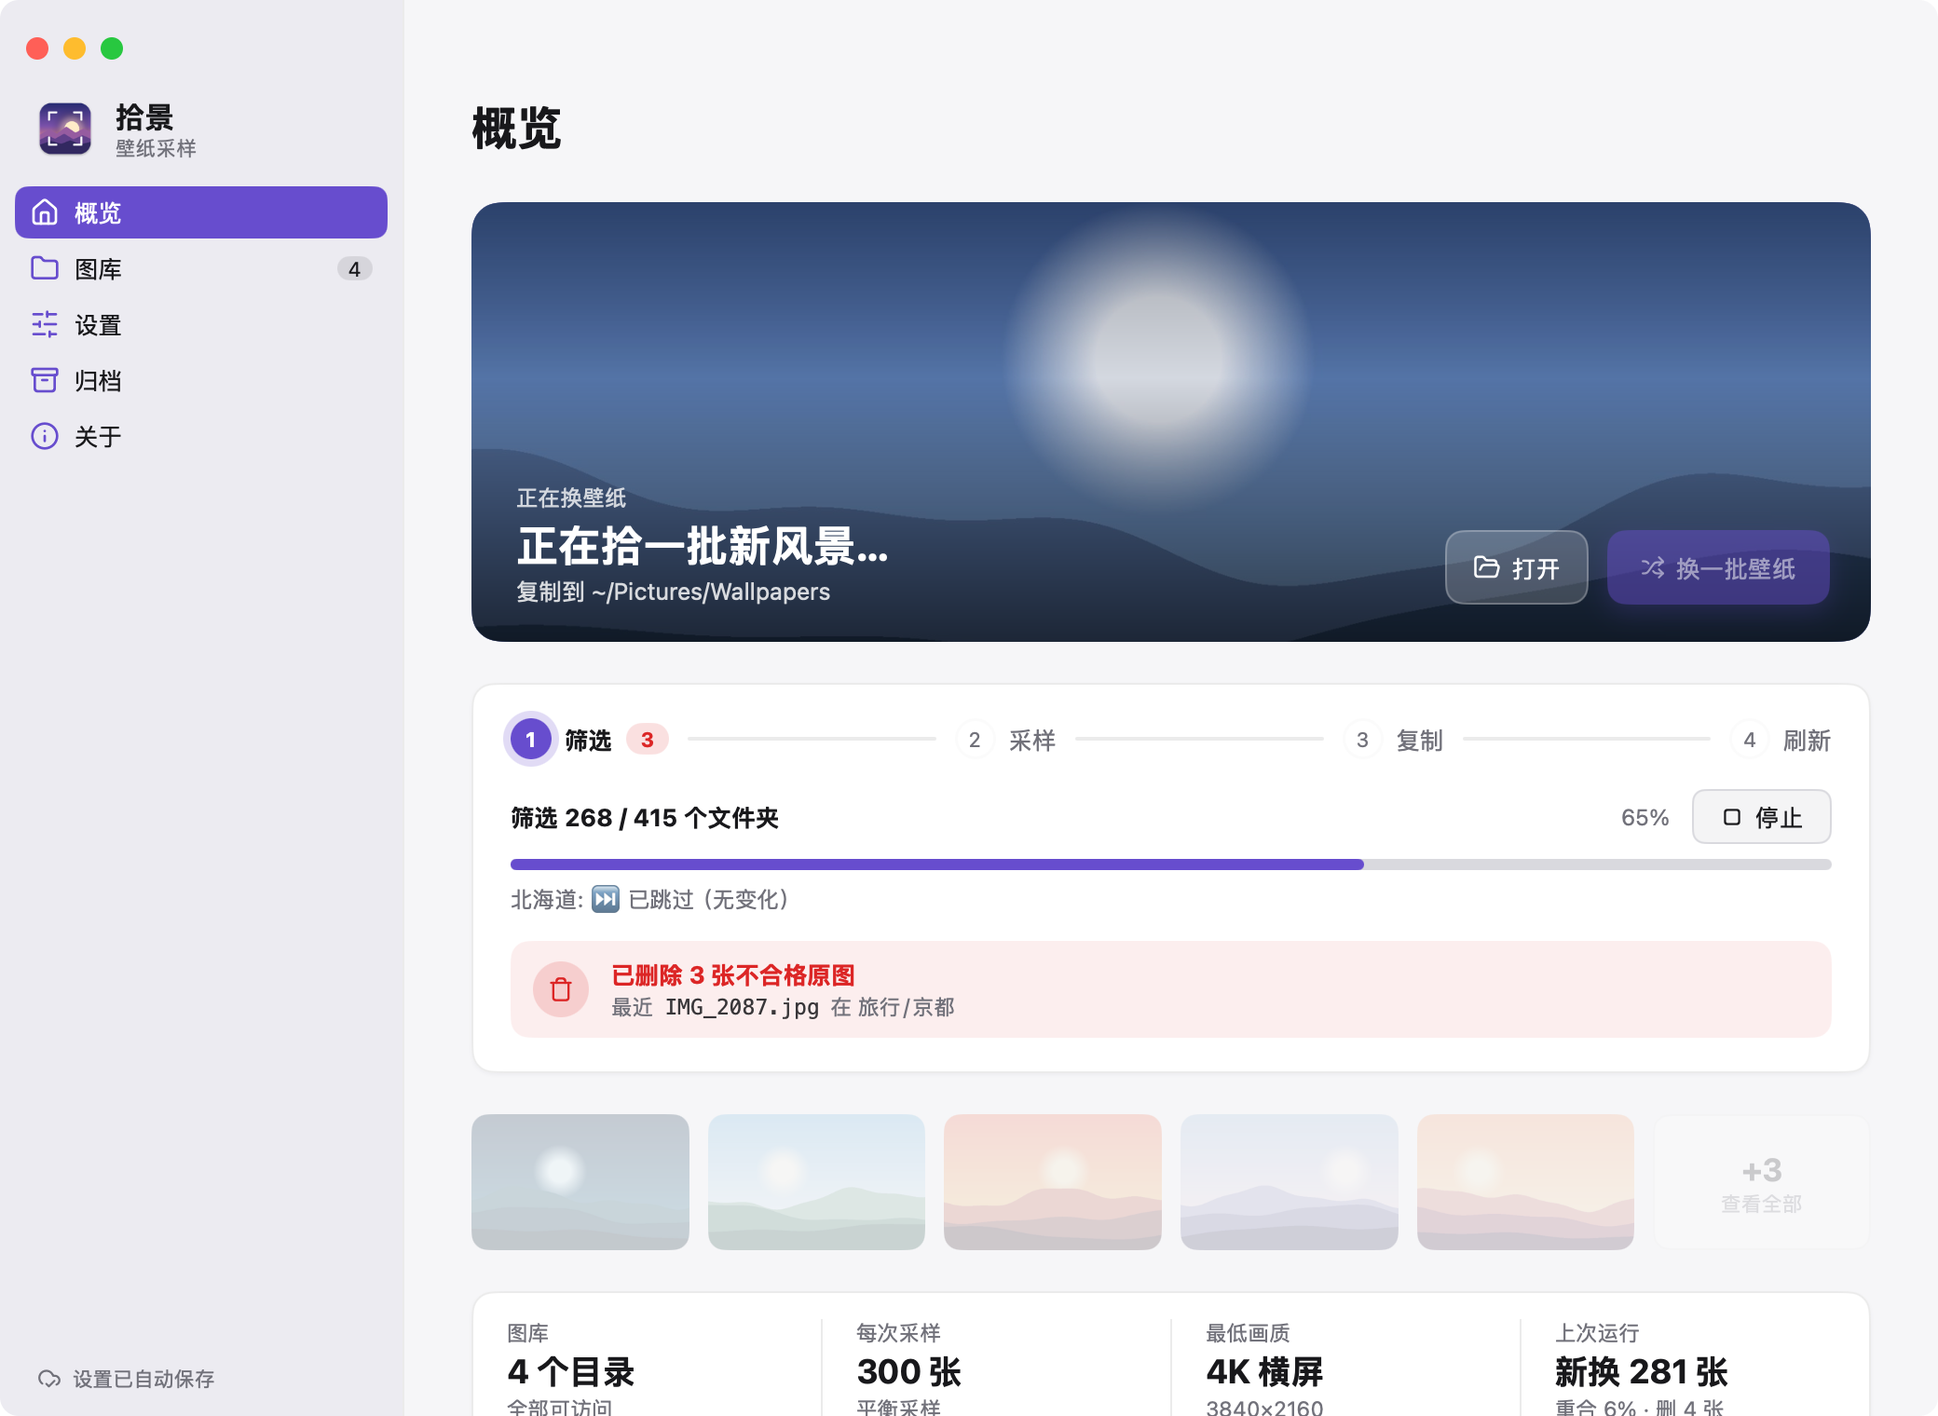
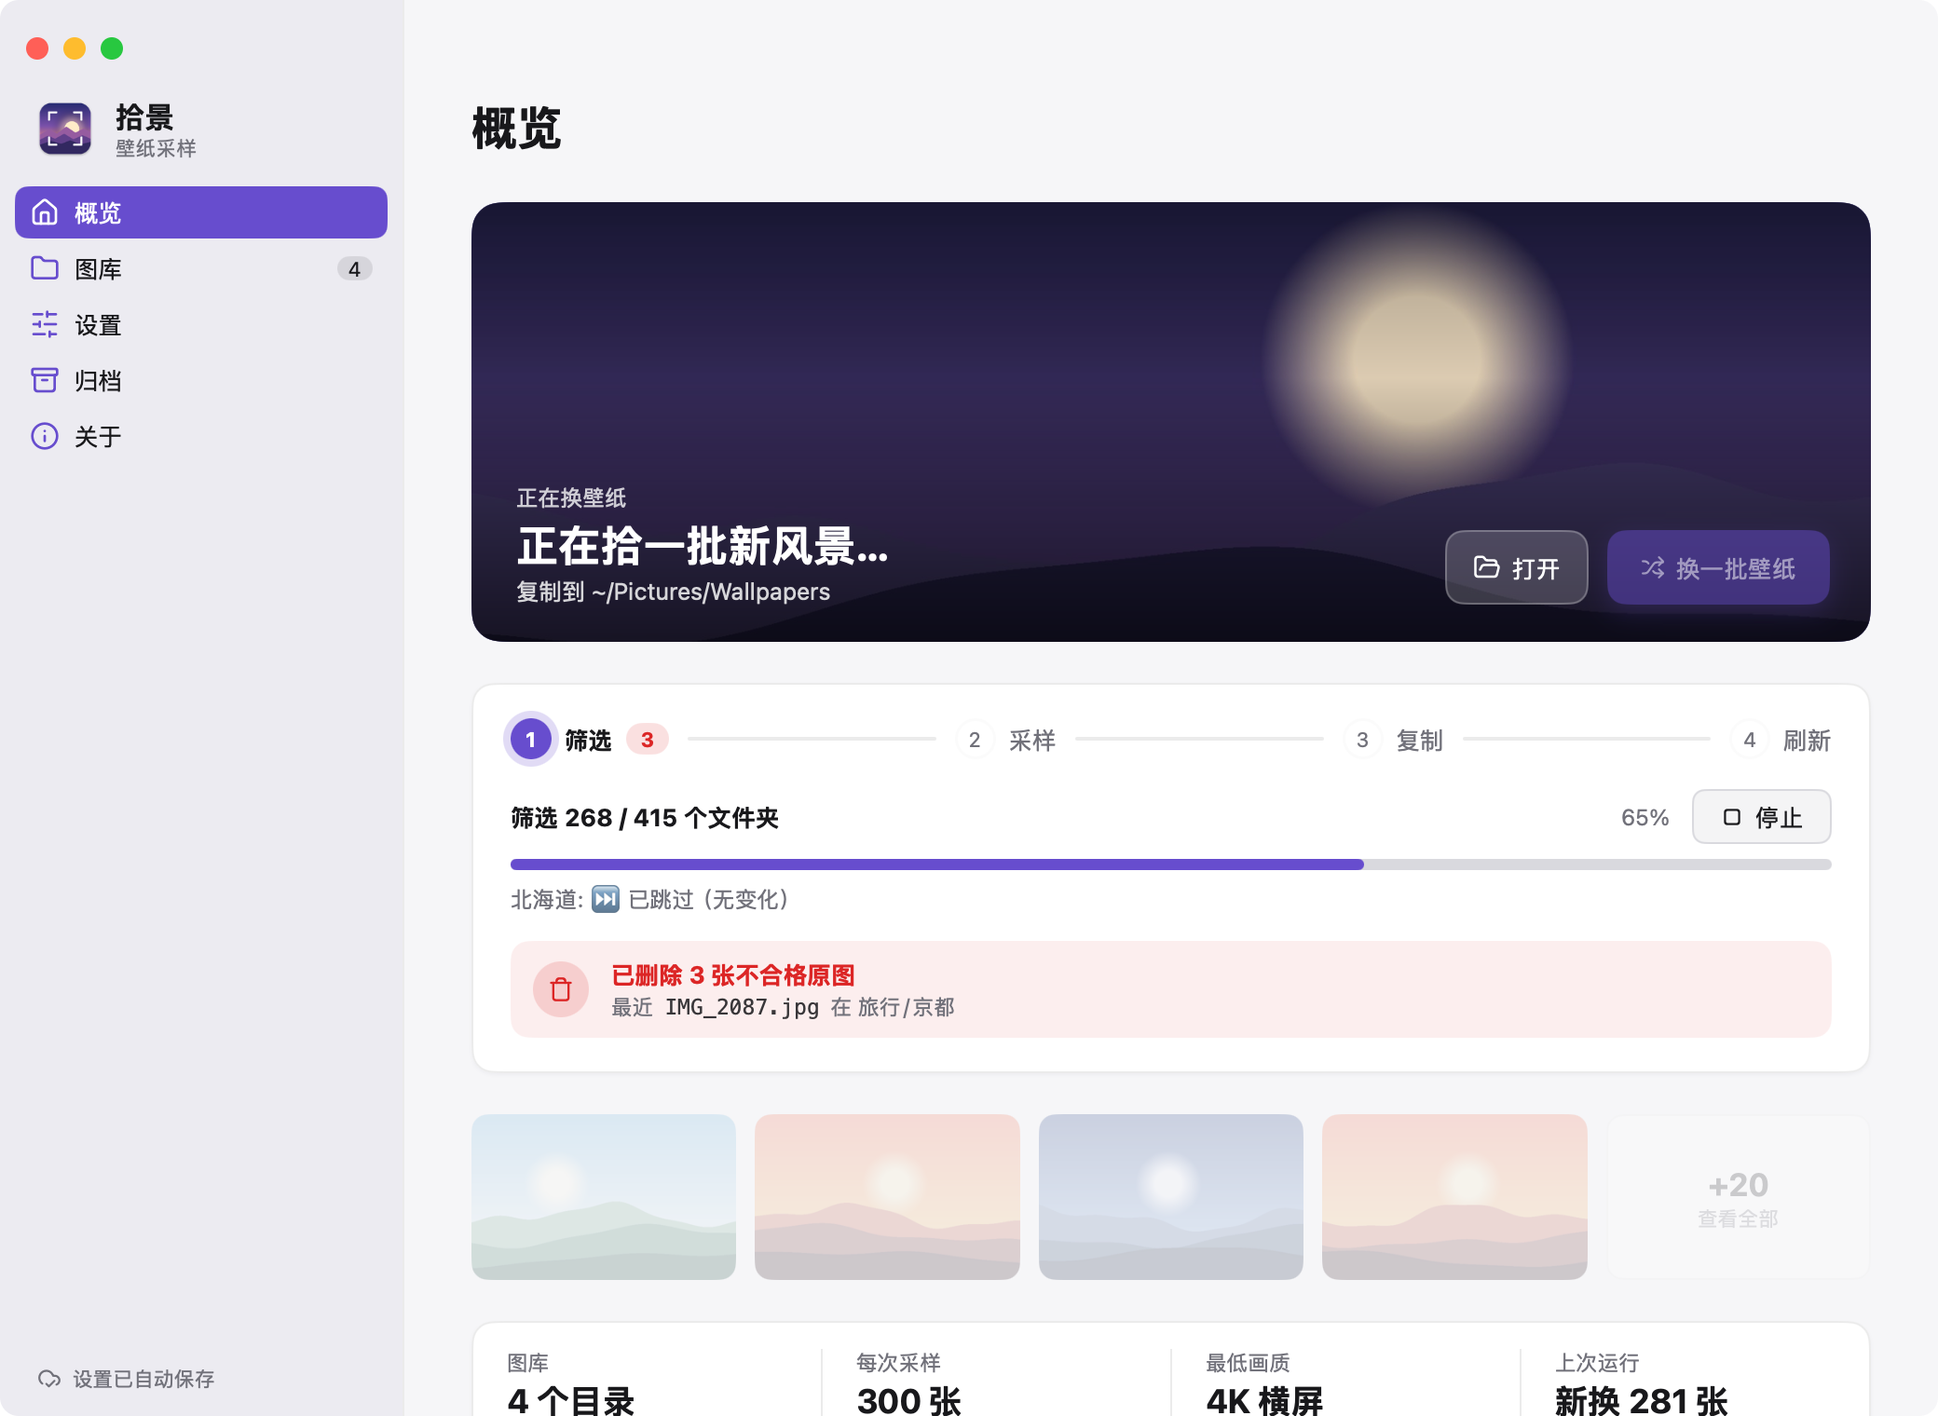
feat(拾景): 概览页缩略图按窗口大小铺满（列数随宽度、行数填满剩余高度），版本 v0.2.110

diff --git a/desktop/thumbs.go b/desktop/thumbs.go
@@ -13,12 +13,15 @@ import (
 	"golang.org/x/image/draw"
 )
 
-// 概览页展示当前壁纸：一张做横幅背景，其余做缩略图条。
+// 概览页展示当前壁纸：一张做横幅背景，其余做缩略图网格。网格的行列数跟着窗口大小变（stripLayout），
+// 先解码够一屏常见大小的缩略图，窗口拉大需要更多时再从剩下的文件里接着解码（loadMoreThumbs）。
 // 只读本地的壁纸文件夹（dest_dir），不碰 NAS；解码和缩小都在后台完成。
 const (
-	stripThumbs = 5    // 缩略图条显示几张（最后再加一格「+N」）
-	heroWidth   = 1600 // 横幅图缩到的宽度（像素，Retina 下约 800 DIP）
-	thumbWidth  = 360  // 缩略图宽度（像素）
+	initialThumbs = 11   // 第一次解码几张缩略图（默认窗口两行 × 6 列，减去「+N」那格）
+	maxThumbs     = 71   // 最多显示几张（stripLayout 的上限：6 行 × 12 列 - 1）
+	decodeWorkers = 4    // 同时解码几张：原图可能是几千万像素，全部同时解码内存吃不消
+	heroWidth     = 1600 // 横幅图缩到的宽度（像素，Retina 下约 800 DIP）
+	thumbWidth    = 360  // 缩略图宽度（像素）
 )
 
 // wallpapers 是壁纸文件夹的快照。
@@ -28,7 +31,9 @@ type wallpapers struct {
 	hero    *ui.Bitmap   // 横幅背景；没有图片时为 nil
 	thumbs  []*ui.Bitmap // 缩略图
 	paths   []string     // 每张缩略图对应的文件，点击时打开
+	rest    []string     // 还没解码的文件（已打乱），需要更多缩略图时从这里取
 	loading bool
+	more    bool // 正在后台解码更多缩略图
 }
 
 // scannedWallpapers 是后台扫描的结果（image.Image 在主线程上才转成 Bitmap）。
@@ -38,9 +43,10 @@ type scannedWallpapers struct {
 	hero   image.Image
 	thumbs []image.Image
 	paths  []string
+	rest   []string
 }
 
-// scanWallpapers 列出文件夹里的图片，随机挑几张解码、缩小。读不了的图片直接跳过。
+// scanWallpapers 列出文件夹里的图片，打乱后解码横幅图和前几张缩略图。读不了的图片直接跳过。
 func scanWallpapers(dir string) scannedWallpapers {
 	res := scannedWallpapers{dir: dir}
 	entries, err := os.ReadDir(dir)
@@ -57,33 +63,50 @@ func scanWallpapers(dir string) scannedWallpapers {
 	res.total = len(files)
 	rand.Shuffle(len(files), func(i, j int) { files[i], files[j] = files[j], files[i] })
 
-	// 多挑几张备用：个别文件解码失败时仍能凑满
-	pick := files[:min(len(files), stripThumbs+4)]
-	decoded := make([]image.Image, len(pick))
-	var wg sync.WaitGroup
-	for i, f := range pick {
-		wg.Add(1)
-		go func() {
-			defer wg.Done()
-			width := thumbWidth
-			if i == 0 {
-				width = heroWidth
-			}
-			decoded[i] = loadScaled(f, width)
-		}()
-	}
-	wg.Wait()
-	for i, img := range decoded {
-		switch {
-		case img == nil:
-		case res.hero == nil && img.Bounds().Dx() >= thumbWidth*2:
+	// 横幅图要够宽；第一张不够宽（或读不了）就往后找，最多试几张
+	for len(files) > 0 && res.hero == nil {
+		f := files[0]
+		files = files[1:]
+		img := loadScaled(f, heroWidth)
+		if img == nil {
+			continue
+		}
+		if img.Bounds().Dx() >= thumbWidth*2 {
 			res.hero = img
-		case len(res.thumbs) < stripThumbs:
-			res.thumbs = append(res.thumbs, shrink(img, thumbWidth))
-			res.paths = append(res.paths, pick[i])
+			break
+		}
+		res.thumbs, res.paths = append(res.thumbs, shrink(img, thumbWidth)), append(res.paths, f)
+	}
+	thumbs, paths, rest := decodeThumbs(files, initialThumbs-len(res.thumbs))
+	res.thumbs, res.paths, res.rest = append(res.thumbs, thumbs...), append(res.paths, paths...), rest
+	return res
+}
+
+// decodeThumbs 从 files 里按顺序解码出 n 张缩略图（读不了的跳过、往后补），返回剩下没碰过的文件。
+func decodeThumbs(files []string, n int) (thumbs []image.Image, paths, rest []string) {
+	for n > 0 && len(files) > 0 {
+		batch := files[:min(len(files), n)]
+		files = files[len(batch):]
+		decoded := make([]image.Image, len(batch))
+		sem := make(chan struct{}, decodeWorkers)
+		var wg sync.WaitGroup
+		for i, f := range batch {
+			wg.Add(1)
+			sem <- struct{}{}
+			go func() {
+				defer func() { <-sem; wg.Done() }()
+				decoded[i] = loadScaled(f, thumbWidth)
+			}()
+		}
+		wg.Wait()
+		for i, img := range decoded {
+			if img != nil {
+				thumbs, paths = append(thumbs, img), append(paths, batch[i])
+				n--
+			}
 		}
 	}
-	return res
+	return thumbs, paths, files
 }
 
 // loadScaled 解码一张图片并缩到 width 像素宽（不放大）。
@@ -128,7 +151,7 @@ func (a *app) loadWallpapers() {
 	go func() {
 		s := a.scanWallpapers(dir)
 		a.update(func() {
-			w := wallpapers{dir: s.dir, total: s.total, paths: s.paths}
+			w := wallpapers{dir: s.dir, total: s.total, paths: s.paths, rest: s.rest}
 			if s.hero != nil {
 				w.hero = ui.NewBitmap(s.hero)
 			}
@@ -140,6 +163,31 @@ func (a *app) loadWallpapers() {
 			if core.ExpandUser(a.cfg.DestDir) != dir {
 				a.loadWallpapers()
 			}
+		})
+	}()
+}
+
+// loadMoreThumbs 在后台再解码几张缩略图，凑够 want 张（窗口拉大、网格放得下更多时）。
+func (a *app) loadMoreThumbs(want int) {
+	w := &a.walls
+	need := min(want, maxThumbs) - len(w.thumbs)
+	if need <= 0 || len(w.rest) == 0 || w.more || w.loading || a.update == nil {
+		return
+	}
+	w.more = true
+	dir, files, before := w.dir, w.rest, len(w.thumbs)
+	go func() {
+		thumbs, paths, rest := decodeThumbs(files, need)
+		a.update(func() {
+			w := &a.walls
+			if w.dir != dir || !w.more || len(w.thumbs) != before { // 期间重新读过壁纸文件夹，这批作废
+				return
+			}
+			w.more = false
+			for _, t := range thumbs {
+				w.thumbs = append(w.thumbs, ui.NewBitmap(t))
+			}
+			w.paths, w.rest = append(w.paths, paths...), rest
 		})
 	}()
 }

diff --git a/desktop/view.go b/desktop/view.go
@@ -49,8 +49,15 @@ func (a *app) view(c *ui.Context) {
 		ui.Column(c).Grow(1).MinWidth(0).Background(pageBg(t)).Children(func() {
 			// 隐藏标题栏后，内容区顶部这一条用来拖动窗口
 			ui.Box(c).Height(max(c.TitleBar().Height, 24)).Shrink(0).DragWindow()
-			ui.Scroll(c).Grow(1).Children(func() {
-				ui.Column(c).Padding(0, 36, 32, 36).Gap(22).MaxWidth(contentMax).Children(func() {
+			sc := ui.Scroll(c).Grow(1)
+			a.viewH = sc.LayoutBounds().H
+			sc.Children(func() {
+				col := ui.Column(c).Padding(0, 36, 32, 36).Gap(22)
+				if a.page != pageOverview {
+					col.MaxWidth(contentMax) // 设置之类的表单太宽不好读；概览页铺满窗口，缩略图跟着变多
+				}
+				a.pageH = col.LayoutBounds().H
+				col.Children(func() {
 					switch a.page {
 					case pageLibrary:
 						a.libraryPage(c)
@@ -278,6 +285,30 @@ func (a *app) stoppedWithCopies() bool {
 	return a.last != nil && errors.Is(a.last.err, core.ErrCanceled) && a.last.sum.Copy.Copied > 0
 }
 
+const (
+	stripGap      = 10
+	stripAspect   = 16.0 / 10
+	stripMinThumb = 132 // 缩略图最窄多宽（DIP），据此决定列数
+)
+
+// stripLayout 按上一帧量到的尺寸算缩略图网格的列数和行数：列数让每张不窄于 stripMinThumb，
+// 行数尽量填满窗口里剩下的高度（页面其余部分的高度 = 整页高度 - 网格高度，跟行数无关，所以不会来回跳）。
+// 第一帧还没量到尺寸时按默认窗口算（6 列 1 行）。
+func stripLayout(grid ui.Rect, pageH, viewH float32) (cols, rows int) {
+	cols, rows = 6, 1
+	if grid.W <= 0 {
+		return cols, rows
+	}
+	cols = max(4, min(12, int((grid.W+stripGap)/(stripMinThumb+stripGap))))
+	cellH := (grid.W - stripGap*float32(cols-1)) / float32(cols) / stripAspect
+	if grid.H <= 0 || pageH <= 0 || viewH <= 0 {
+		return cols, rows
+	}
+	free := viewH - (pageH - grid.H)
+	rows = max(1, min(6, int((free+stripGap)/(cellH+stripGap))))
+	return cols, rows
+}
+
 // thumbStrip 是当前壁纸的缩略图条：点一张用默认应用打开它，最后一格打开整个文件夹。
 // 运行中壁纸文件夹正在被清空重写，缩略图是上一批的，调暗并且不能点。
 func (a *app) thumbStrip(c *ui.Context) {
@@ -286,13 +317,26 @@ func (a *app) thumbStrip(c *ui.Context) {
 	if w.total == 0 && !w.loading {
 		return
 	}
-	grid := ui.Grid(c).Columns(stripThumbs + 1).Gap(10).Disabled(a.running)
+	grid := ui.Grid(c).Gap(stripGap).Disabled(a.running)
+	cols, rows := stripLayout(grid.LayoutBounds(), a.pageH, a.viewH)
+	if cols != a.stripCols || rows != a.stripRows {
+		// 尺寸是上一帧量的，变了就再排一帧，让网格跟上窗口大小
+		a.stripCols, a.stripRows = cols, rows
+		c.AnimationFrame()
+	}
+	cells := cols*rows - 1 // 最后一格是「+N / 打开文件夹」
+	shown := min(cells, len(w.thumbs))
+	if w.loading || w.more {
+		shown = cells // 还在解码：先用占位格撑住
+	}
+	a.loadMoreThumbs(cells)
+	grid.Columns(cols)
 	if a.running {
 		grid.Opacity(0.4).Tooltip("正在换壁纸，这是上一批")
 	}
 	grid.Children(func() {
-		for i := range stripThumbs {
-			cell := ui.Box(c).AspectRatio(16.0 / 10).Radius(9).Clip().Background(hairline(t)).
+		for i := range shown {
+			cell := ui.Box(c).AspectRatio(stripAspect).Radius(9).Clip().Background(hairline(t)).
 				Label(fmt.Sprintf("壁纸 %d", i+1))
 			if i >= len(w.thumbs) {
 				continue
@@ -305,13 +349,13 @@ func (a *app) thumbStrip(c *ui.Context) {
 				a.openPath(w.paths[i])
 			}
 		}
-		more := ui.ButtonBase(c).AspectRatio(16.0/10).Radius(9).Center().Column().Gap(2).
+		more := ui.ButtonBase(c).AspectRatio(stripAspect).Radius(9).Center().Column().Gap(2).
 			Background(panelBg(t)).Border(1, hairline(t)).Label("查看全部壁纸").Tooltip("在 Finder 中打开壁纸文件夹")
 		if more.Hovered() {
 			more.Background(t.SurfaceHover)
 		}
 		more.Children(func() {
-			if rest := w.total - len(w.thumbs); rest > 0 {
+			if rest := w.total - shown; rest > 0 && !w.loading {
 				ui.Text(c, fmt.Sprintf("+%d", rest)).FontSize(17).Bold()
 				ui.Text(c, "查看全部").FontSize(11).TextColor(t.TextMuted)
 			} else {

diff --git a/desktop/app.go b/desktop/app.go
@@ -116,10 +116,13 @@ type app struct {
 	wallsLoadedGen int
 
 	// 以下由 main 注入：真实窗口里是 Window.Update / 系统对话框，测试里是假的实现。
-	update   func(fn func())             // 在主线程上执行 fn 并重绘
-	pickDir  func(title string) string   // 选择目录，取消返回 ""
-	pickFile func(title string) string   // 选择 JSON 配置文件，取消返回 ""
-	showErr  func(title, message string) // 弹出错误提示（不阻塞调用方）
+	// 概览页缩略图网格：上一帧量到的可视高度、整页高度，和据此算出的行列数（stripLayout）
+	viewH, pageH         float32
+	stripCols, stripRows int
+	update               func(fn func())             // 在主线程上执行 fn 并重绘
+	pickDir              func(title string) string   // 选择目录，取消返回 ""
+	pickFile             func(title string) string   // 选择 JSON 配置文件，取消返回 ""
+	showErr              func(title, message string) // 弹出错误提示（不阻塞调用方）
 	// confirmDelete 在运行前确认会删除原图（会阻塞，后台调用）；返回是否继续、是否勾了「不再提示」。
 	// 为 nil 时不确认（测试）。
 	confirmDelete func(detail string) (ok, dontAsk bool)

diff --git a/desktop/screenshots_test.go b/desktop/screenshots_test.go
@@ -4,6 +4,7 @@ package main
 // SHOTS_DIR=$PWD/../docs/screenshots CGO_ENABLED=0 go test -run TestScreenshots .
 
 import (
+	"fmt"
 	"encoding/json"
 	"image"
 	"image/color"
@@ -120,9 +121,9 @@ func TestScreenshots(t *testing.T) {
 	home := t.TempDir()
 	t.Setenv("HOME", home)
 	walls := t.TempDir()
-	for i, p := range pals {
-		f, _ := os.Create(filepath.Join(walls, "demo"+string(rune('a'+i))+".jpg"))
-		jpeg.Encode(f, landscape(1920, 1080, p, float64(i)+0.3), &jpeg.Options{Quality: 90})
+	for i := range 3 * len(pals) { // 够填满几行缩略图
+		f, _ := os.Create(filepath.Join(walls, fmt.Sprintf("demo%02d.jpg", i)))
+		jpeg.Encode(f, landscape(1920, 1080, pals[i%len(pals)], float64(i)+0.3), &jpeg.Options{Quality: 90})
 		f.Close()
 	}
 
@@ -179,7 +180,7 @@ func TestScreenshots(t *testing.T) {
 						return false
 					}
 				}
-				return !f.walls.loading && f.walls.hero != nil
+				return !f.walls.loading && !f.walls.more && f.walls.hero != nil
 			})
 			tt.Advance(2 * time.Second)
 			tt.Frame()

diff --git a/desktop/main_test.go b/desktop/main_test.go
@@ -514,3 +514,23 @@ func TestOverlapPercent(t *testing.T) {
 		}
 	}
 }
+
+func TestStripLayout(t *testing.T) {
+	for _, c := range []struct {
+		grid               ui.Rect
+		pageH, viewH       float32
+		wantCols, wantRows int
+	}{
+		{ui.Rect{}, 0, 0, 6, 1},                    // 第一帧还没量到
+		{ui.Rect{W: 750, H: 90}, 900, 700, 5, 1},   // 页面已经比窗口高：只放一行
+		{ui.Rect{W: 750, H: 90}, 700, 1000, 5, 4},  // 剩 390 高：每格 88.75 高，4 行加 3 个间距 385
+		{ui.Rect{W: 1100, H: 90}, 700, 2000, 7, 6}, // 再高也最多 6 行
+		{ui.Rect{W: 400, H: 90}, 700, 700, 4, 1},   // 很窄也至少 4 列
+		{ui.Rect{W: 3000, H: 90}, 700, 700, 12, 1}, // 很宽最多 12 列
+	} {
+		cols, rows := stripLayout(c.grid, c.pageH, c.viewH)
+		if cols != c.wantCols || rows != c.wantRows {
+			t.Errorf("stripLayout(%v, %v, %v) = %d×%d，想要 %d×%d", c.grid, c.pageH, c.viewH, cols, rows, c.wantCols, c.wantRows)
+		}
+	}
+}

diff --git a/CLAUDE.md b/CLAUDE.md
@@ -64,7 +64,7 @@ NAS/网络卷上同步来的文件经常带有 `SF_ARCHIVED`（superuser-only）
 - 依赖 MyGo v0.8.x（0.x 阶段，小版本升级可能改 API）。升级前读 `desktop/.agents/skills/mygo-maintenance/SKILL.md`，用 `go tool mygo migrate-ui .` 预览迁移；改完跑 `go tool mygo vet .` 和 `CGO_ENABLED=0 go test ./...`。
 - 配置、增量状态、删除日志、窗口位置都在 `~/Library/Application Support/拾景/`，不是仓库目录（`.app` 位置不固定，不能像 Python 版那样相对脚本目录找文件）。状态文件故意不和 Python 版共享。改名前叫「壁纸工具」，`main.go` 启动时会用 `core.MigrateDataDir` 把旧目录搬过来（新目录已存在就不动）。以后再改 `appName` 也要照此迁移，否则用户配置会"丢"。
 - 窗口用 `TitleBarHiddenInset` + `VibrancySidebar`：侧边栏顶部和内容区顶部各留了一条 `DragWindow()` 的拖拽区，侧边栏背景透明才能透出毛玻璃（`c.Vibrancy()` 为 false 时退回纯色）。配色和通用组件（`panel`/`group`/`settingRow`/`sceneArt` 插画）集中在 `theme.go`。
-- 概览页缩略图由 `thumbs.go` 的 `scanWallpapers` 在后台解码缩小，`Bitmap` 回主线程再建；只读本地 `dest_dir`，运行结束 `wallsGen++` 触发重读。`app.scanWallpapers` 是注入的，测试里设成 nil，界面测试不读真实目录。
+- 概览页缩略图由 `thumbs.go` 的 `scanWallpapers` 在后台解码缩小，`Bitmap` 回主线程再建；只读本地 `dest_dir`，运行结束 `wallsGen++` 触发重读。缩略图网格的行列数由 `stripLayout` 按**上一帧**量到的尺寸算（网格宽度定列数，滚动区高度 − 页面其余部分高度定行数，后者与行数无关所以不会来回跳），算出来变了就 `c.AnimationFrame()` 再排一帧；概览页不受 `contentMax` 限制、铺满窗口宽度。先解码 `initialThumbs` 张，放得下更多时 `loadMoreThumbs` 从 `walls.rest` 接着解码（`decodeWorkers` 限并发，原图很大）。`app.scanWallpapers` 是注入的，测试里设成 nil，界面测试不读真实目录。
 - 「换上时间」和「上次运行」来自 `ui_state.json`（`uistate.go`），**不要**改用壁纸文件夹里文件的 mtime：复制时 `copyFile` 会用 `Chtimes` 保留原图的修改时间，那是原图的时间，不是换上的时间。命令行跑的不会写这个文件。
 - 「上次运行」的「新换 N 张 / 重合率」来自 `core.compareSelection`：按**原图路径**比（壁纸文件夹里的文件名会因重名被改写，不能拿来比），上一轮的选择存在数据目录的 `last_selection.json`（命令行也会写），没有记录（刚升级、换了壁纸文件夹）时，在清空壁纸文件夹**之前**读里面现有的文件名，按 `destName`（「上级文件夹-原名」）近似比较（`PrevByName`）。只在复制完整跑完后写，被停止的不算一轮。运行卡片上的删除计数是 `app.countDeletion` 从日志行里数的，改 `sorter.go` 的「待删除 / 已删除 / 删除失败」日志格式要同步改这里。
 - 停止靠 `core.Reporter.Stop`：筛选在文件夹之间检查（没检查的目录不写进增量状态，否则下次会被当成"没变化"跳过）、清空壁纸目录前检查一次、复制时不再开始新任务；被停止返回 `core.ErrCanceled`。新加耗时步骤时记得在安全点检查它。
